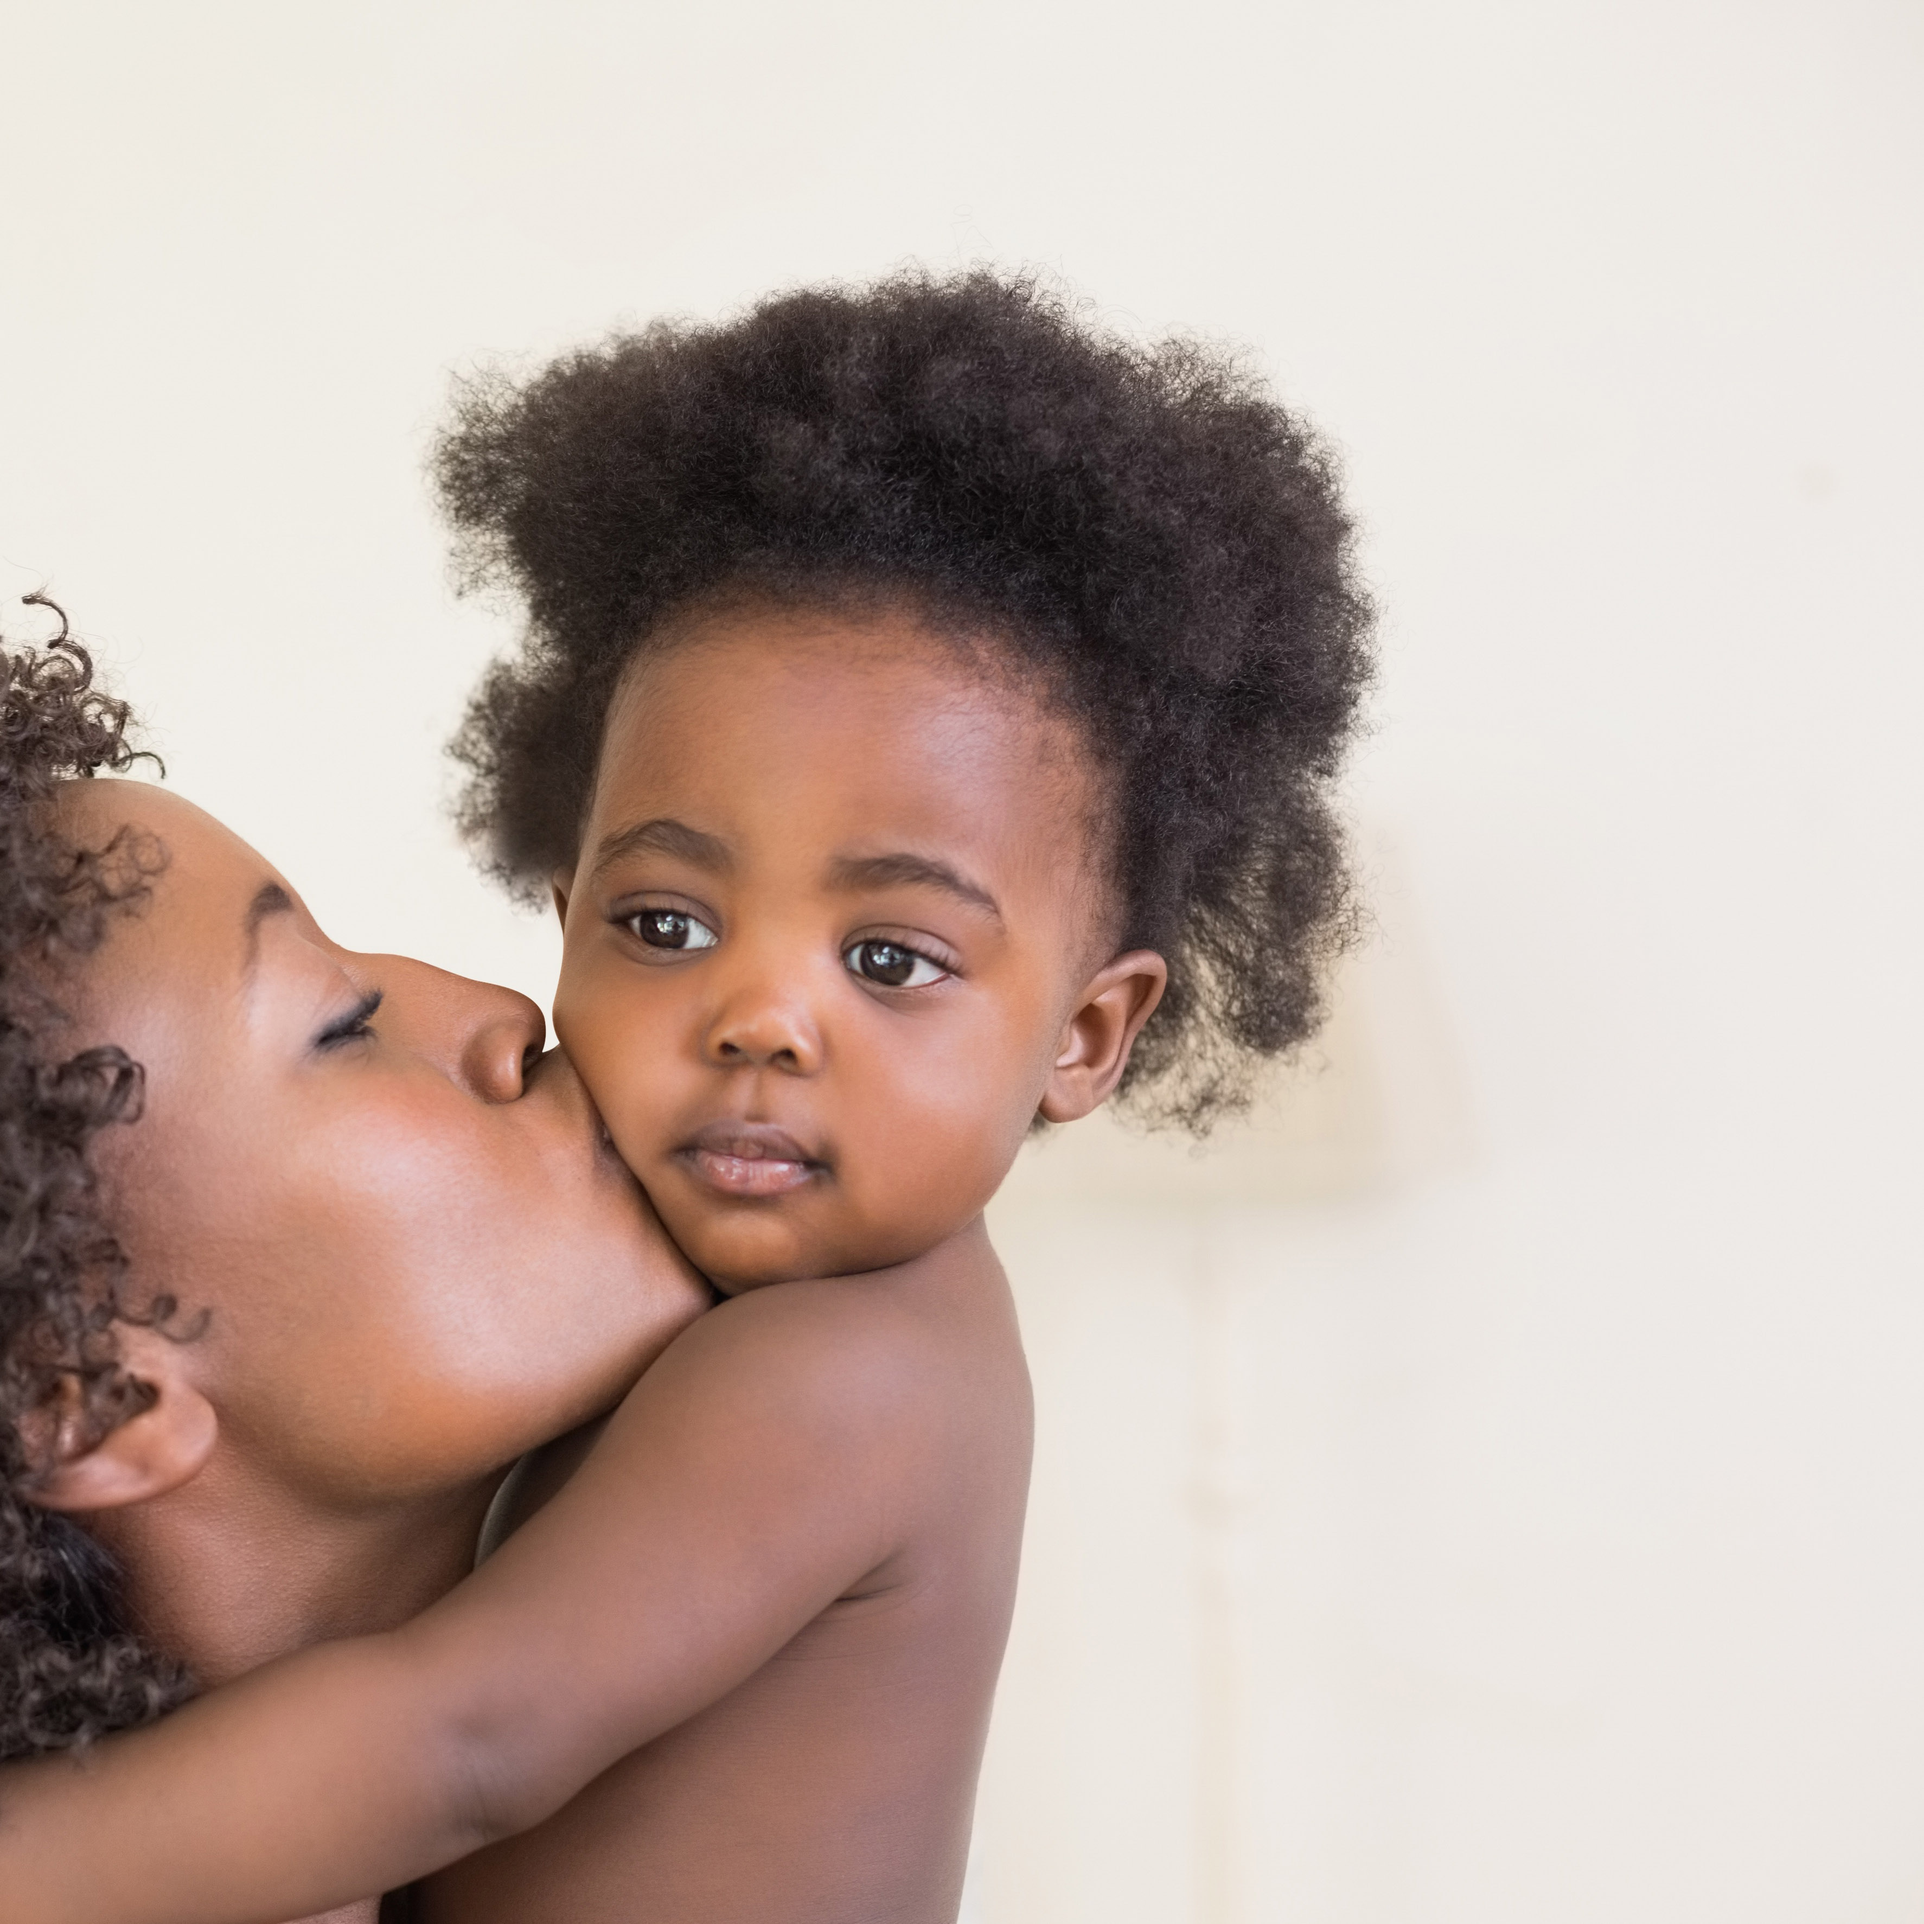
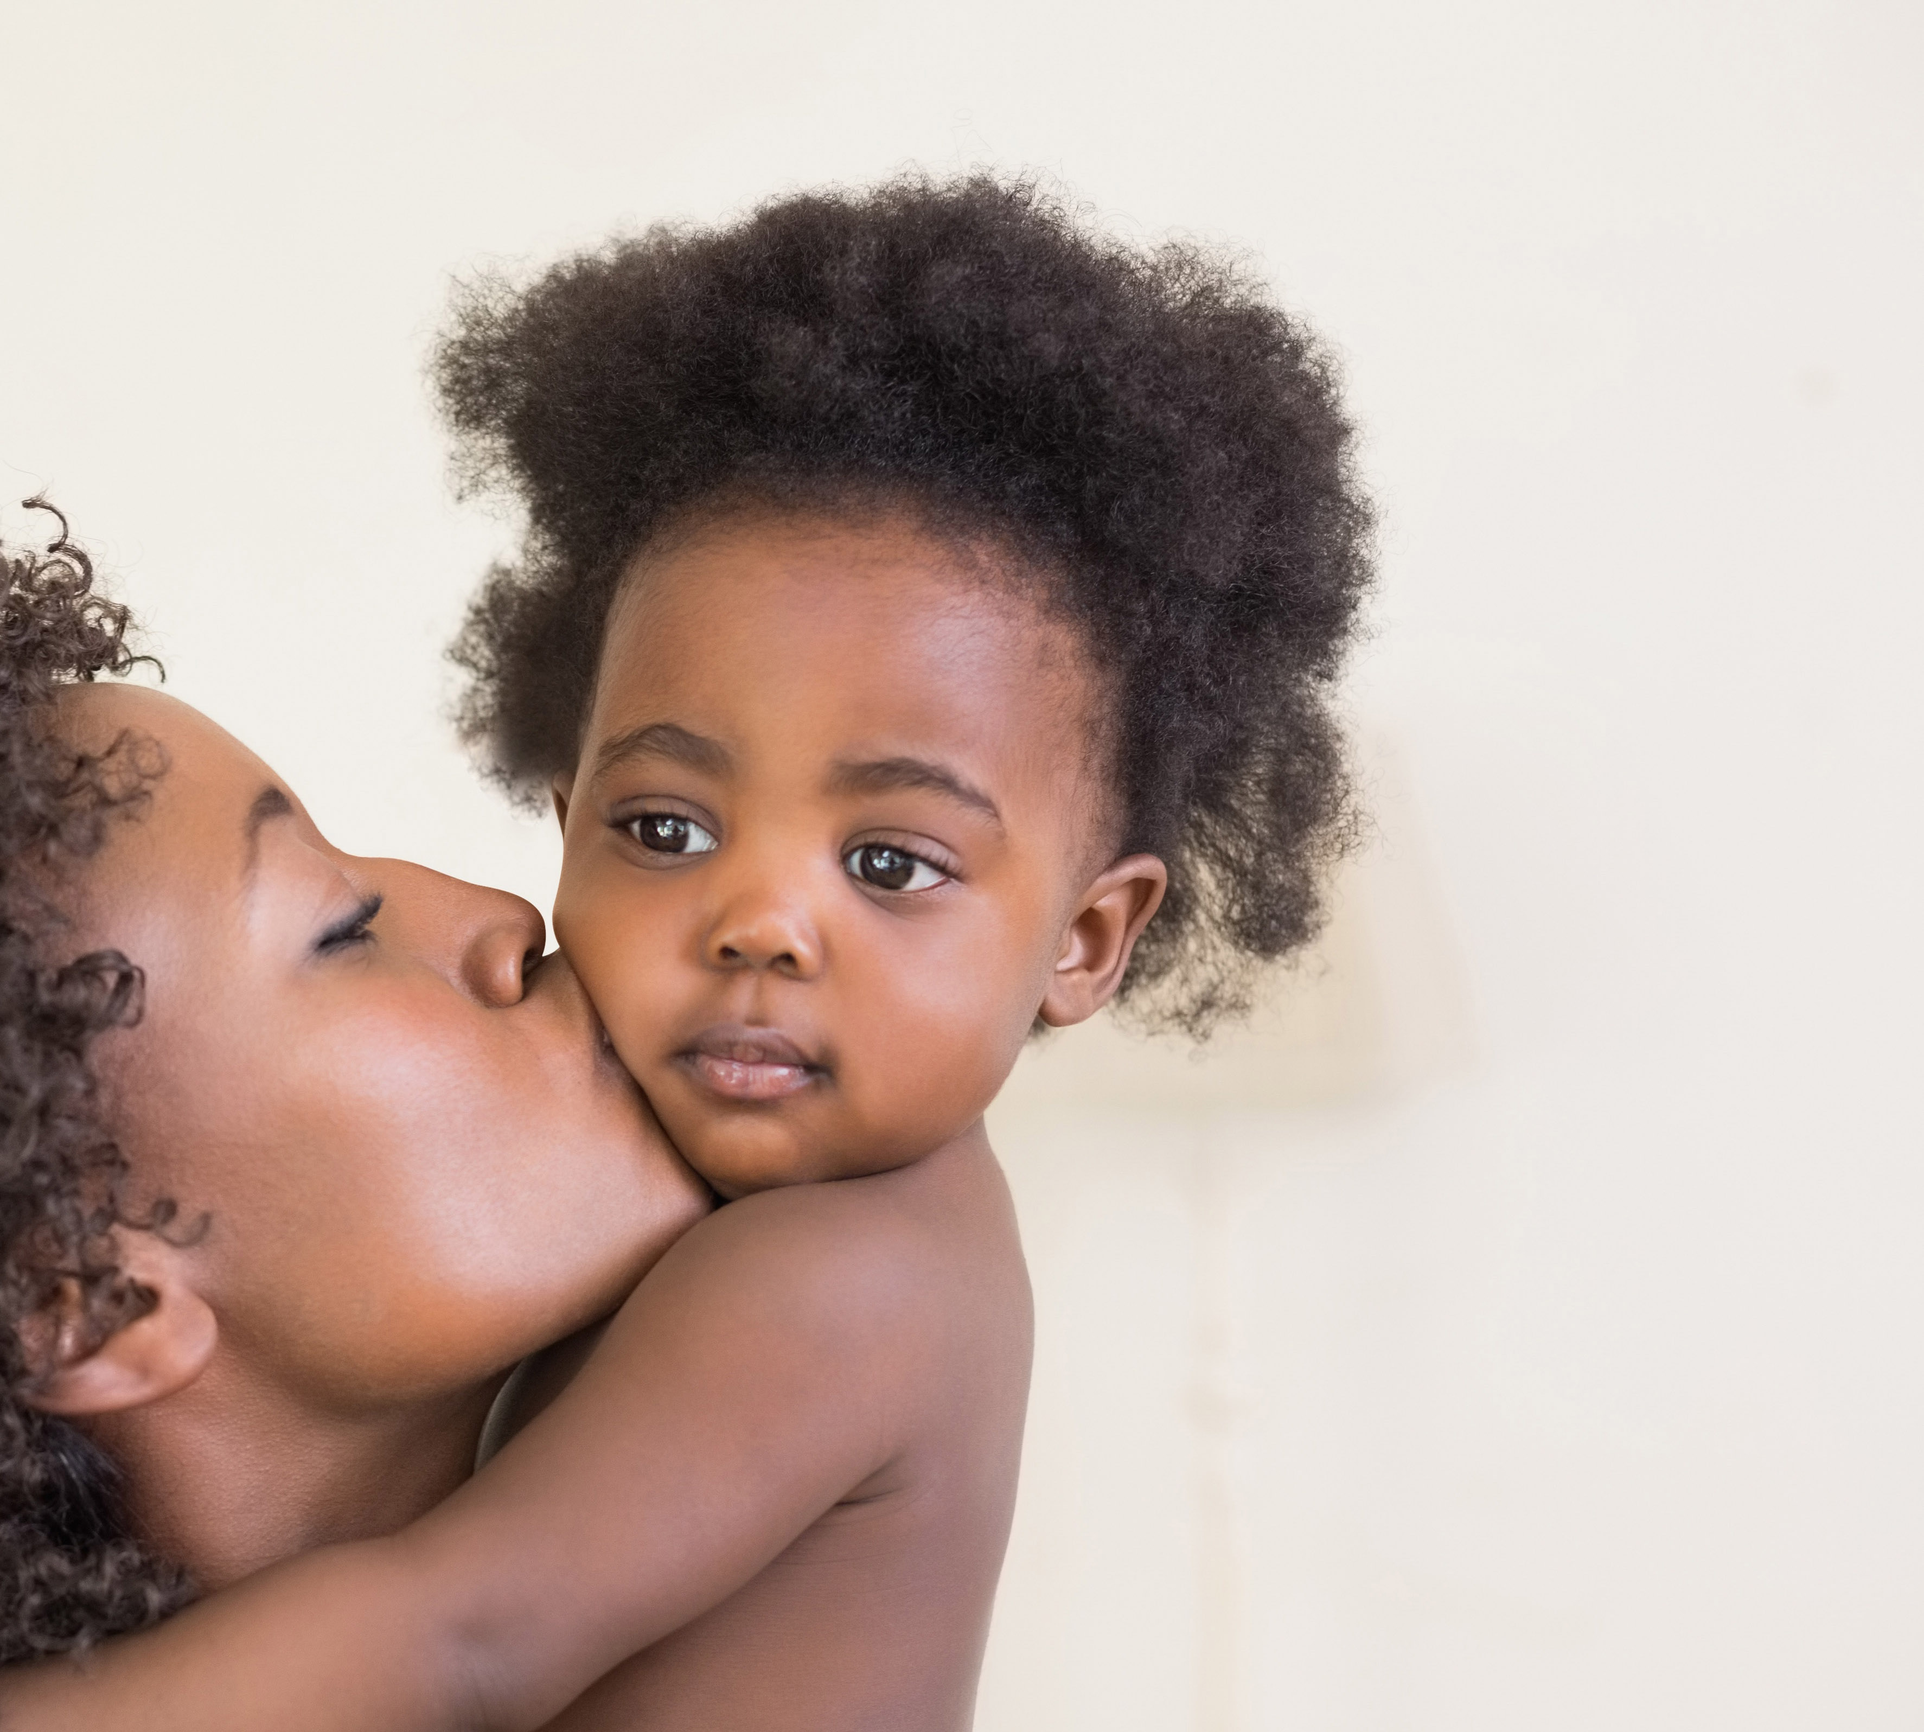
fix pics

diff --git a/index.html b/index.html
@@ -1,5 +1,5 @@
 <!doctype html>
-<html lang='en' data-version='1538342404187'>
+<html lang='en' data-version='1538446760179'>
 
 <head>
 
@@ -30,7 +30,7 @@
     <meta name='twitter:image:src' content='https://expmag.com/project-name/assets/social/og-image.jpg' />
     
     <link rel='canonical' href='https://expmag.com/' />
-
+    <link rel="shortcut icon" type="image/png" href="assets/images/favicon.png"/>
     <!-- smoosh -->
     <link rel="stylesheet" href="assets/scripts/bootstrap.css"/>
     <link rel='stylesheet' href='bundle.css' />
@@ -7653,7 +7653,7 @@
     </footer></main>
 
 <script src='assets/scripts/d3.v4.12.0+jetpack.min.js'></script>
-<script src='bundle.js?version=1538342404187' async></script>
+<script src='bundle.js?version=1538446760179' async></script>
 
 </body>
 

diff --git a/bundle.css b/bundle.css
@@ -463,8 +463,8 @@ body::after {
 }
 
 .img-desp {
-  width: 85%;
-  margin: 1rem auto;
+  width: 95%;
+  margin: 0px auto 1rem auto;
 }
 
 .img__credit,.img__caption {
@@ -506,6 +506,7 @@ body::after {
 }
 
 span.year {
+  letter-spacing: -3px;
   color: #9f9e98 !important;
 }
 
@@ -1150,6 +1151,10 @@ cite::before {
     font-size: 3rem;
   }
 
+  .img-desp {
+    text-align: center;
+  }
+
   .card--footer {
     position: relative;
     min-height: 2rem;
@@ -1279,7 +1284,6 @@ cite::before {
   }
 
   .card-persona .hero__media img {
-    width: 85%;
     height: auto;
     max-height: 72vh;
   }
